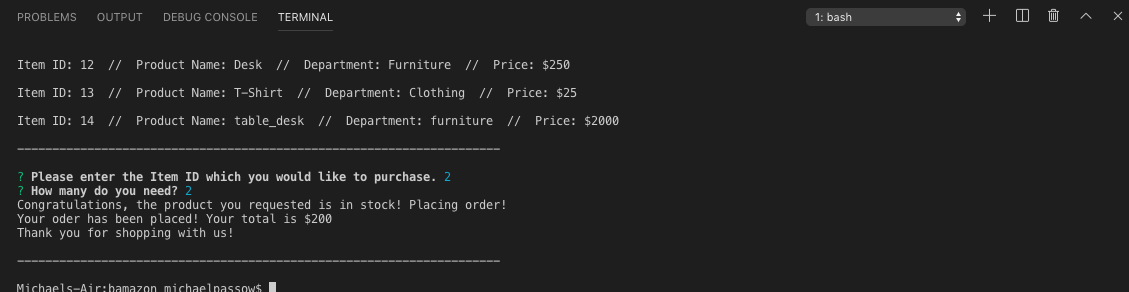
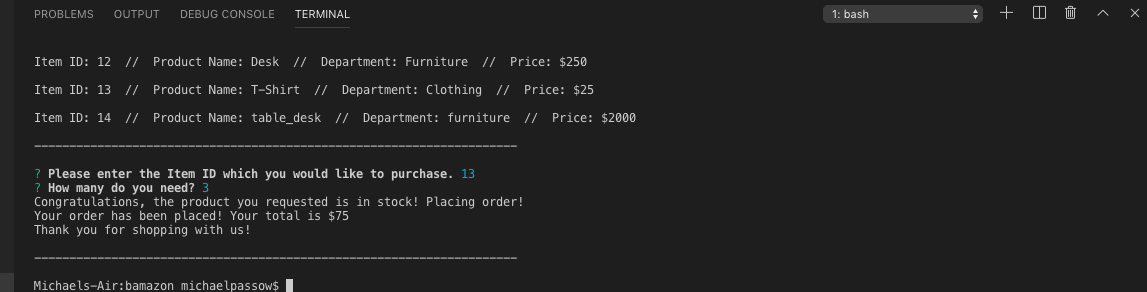
added screenshot

diff --git a/bamazonCustomer.js b/bamazonCustomer.js
@@ -86,7 +86,7 @@ function promptUserPurchase() {
 					connection.query(updateQueryStr, function(err, data) {
 						if (err) throw err;
 
-						console.log('Your oder has been placed! Your total is $' + productData.price * quantity);
+						console.log('Your order has been placed! Your total is $' + productData.price * quantity);
 						console.log('Thank you for shopping with us!');
 						console.log("\n---------------------------------------------------------------------\n");
 
